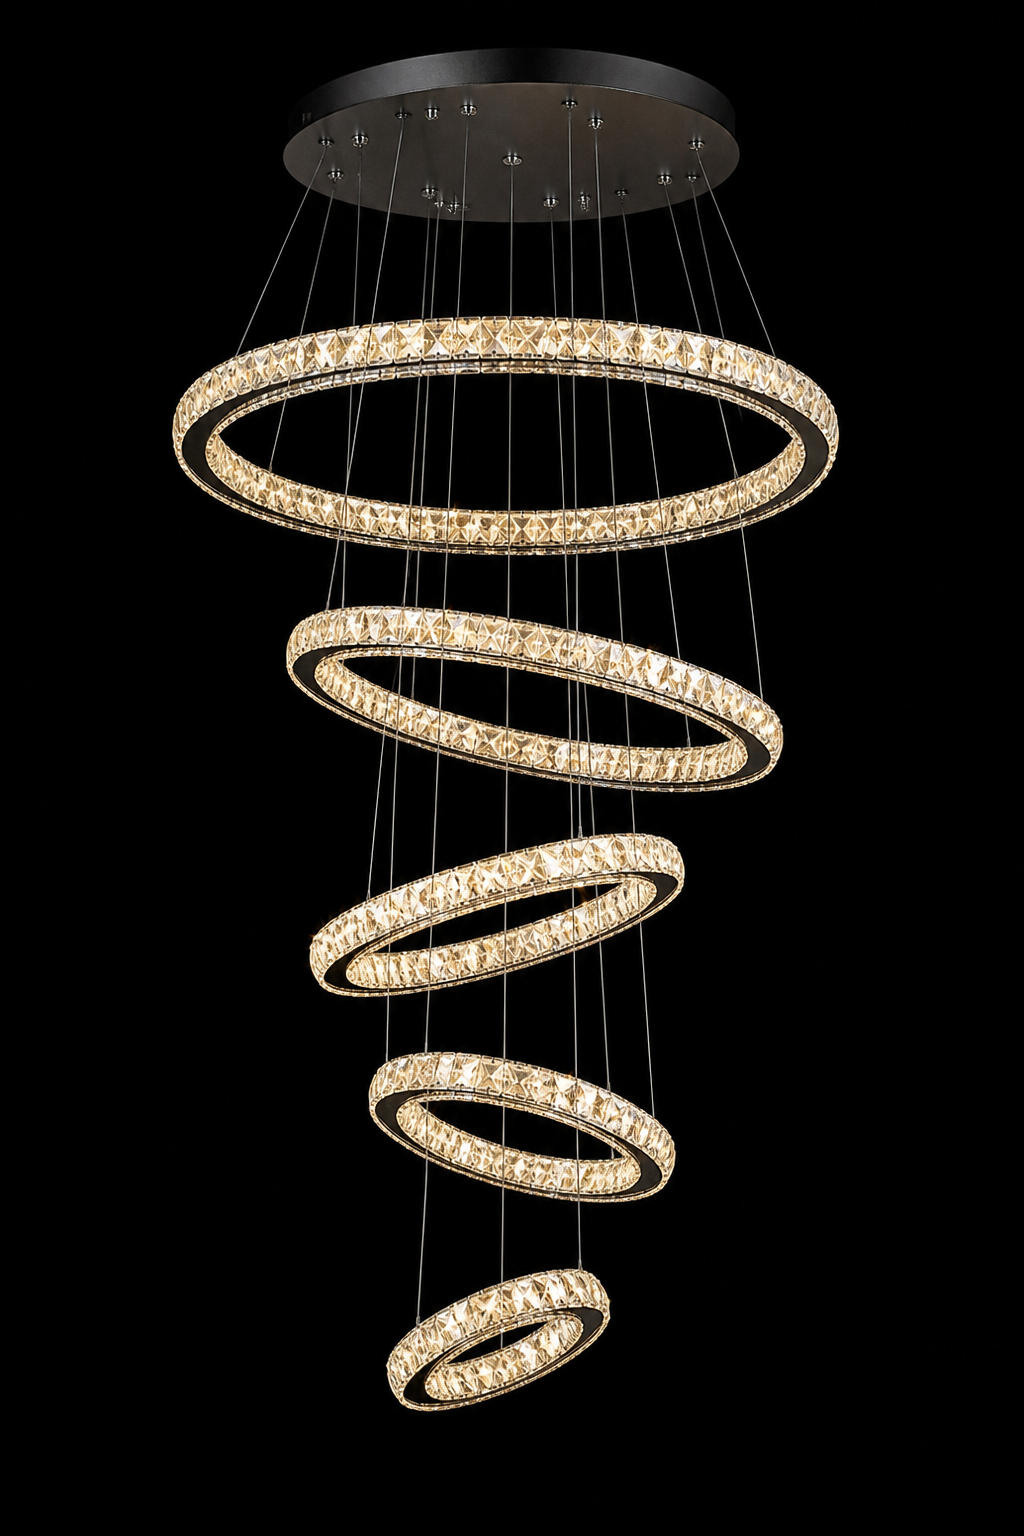
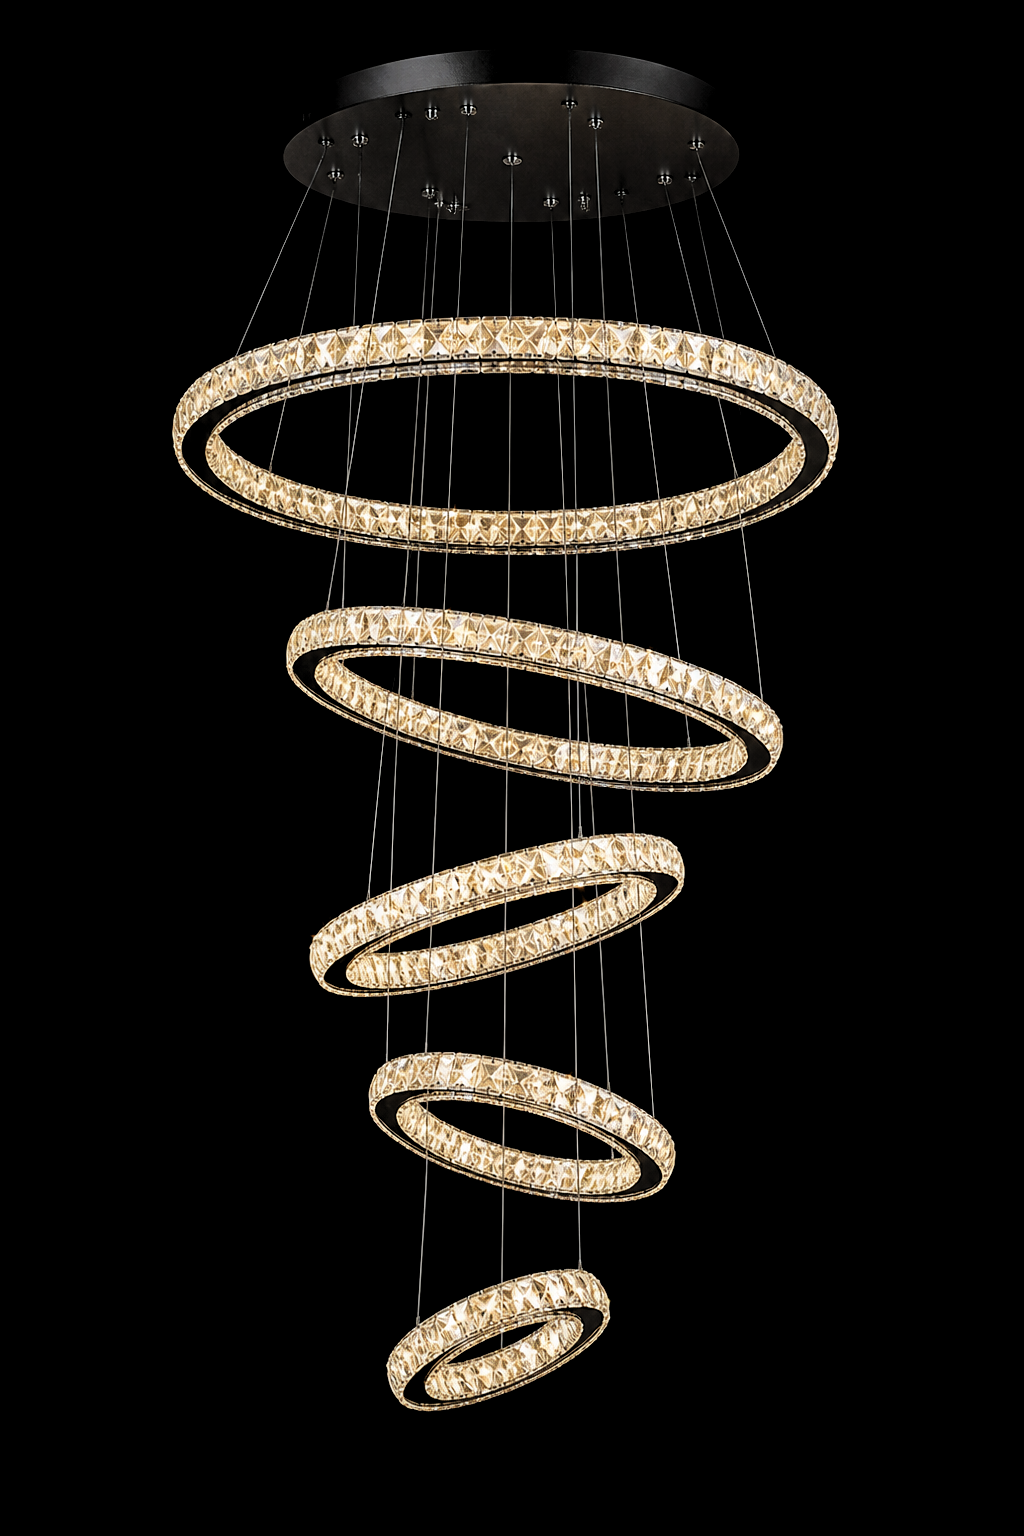
Fix hero entry: gate on image load, remove visible box edges and flare banding

diff --git a/src/components/hero-chandelier.tsx b/src/components/hero-chandelier.tsx
@@ -1,19 +1,35 @@
 "use client";
 
 import Image from "next/image";
-import { useEffect, useRef, useState } from "react";
+import { useCallback, useEffect, useRef, useState } from "react";
 
 // Module-scoped so the cinematic entry only plays on the first load of the
 // session; returning to the home page via client navigation skips it.
 let hasPlayedEntry = false;
 
+type Phase = "waiting" | "entry" | "live";
+
 export function HeroChandelier() {
-  const [entry] = useState(() => !hasPlayedEntry);
+  const [phase, setPhase] = useState<Phase>(() =>
+    hasPlayedEntry ? "live" : "waiting",
+  );
   const tiltRef = useRef<HTMLDivElement>(null);
+  const imageRef = useRef<HTMLImageElement>(null);
+
+  // Only begin the entry once the image is fully loaded, so the animation
+  // never plays against a half-loaded picture.
+  const startEntry = useCallback(() => {
+    hasPlayedEntry = true;
+    setPhase((current) => (current === "waiting" ? "entry" : current));
+  }, []);
 
   useEffect(() => {
-    hasPlayedEntry = true;
-  }, []);
+    if (phase !== "waiting") return;
+    const img = imageRef.current;
+    if (img?.complete && img.naturalWidth > 0) {
+      startEntry();
+    }
+  }, [phase, startEntry]);
 
   // Subtle 3D parallax: the chandelier tilts in perspective following the
   // pointer. Desktop-only, disabled for reduced motion.
@@ -55,12 +71,13 @@ export function HeroChandelier() {
     };
   }, []);
 
+  const phaseClass =
+    phase === "waiting" ? "hero-waiting" : phase === "entry" ? "hero-entry" : "";
+
   return (
     <div
       aria-hidden
-      className={`hero-backdrop pointer-events-none absolute inset-x-0 top-0 flex justify-center ${
-        entry ? "hero-entry" : ""
-      }`}
+      className={`hero-backdrop pointer-events-none absolute inset-x-0 top-0 flex justify-center ${phaseClass}`}
     >
       <div className="hero-3d flex justify-center">
         <div ref={tiltRef} className="hero-tilt">
@@ -68,11 +85,13 @@ export function HeroChandelier() {
             <div className="hero-sway relative">
               <span className="hero-flare" />
               <Image
+                ref={imageRef}
                 src="/hero-chandelier.png"
                 alt=""
                 width={768}
                 height={1152}
                 priority
+                onLoad={startEntry}
                 sizes="(max-width: 640px) 320px, (max-width: 768px) 380px, 460px"
                 className="hero-ignite h-[30rem] w-auto sm:h-[36rem] md:h-[42rem]"
               />

diff --git a/src/app/globals.css b/src/app/globals.css
@@ -245,16 +245,24 @@ body::after {
   animation: cs-hero-sway 10s ease-in-out 3.2s infinite;
 }
 
+/* Only visible as a brief flash while the bulbs ignite */
 .hero-flare {
   position: absolute;
   inset: -12% -30%;
   background: radial-gradient(
     ellipse 50% 42% at 50% 42%,
-    rgba(232, 189, 110, 0.34) 0%,
-    rgba(201, 163, 95, 0.12) 45%,
-    transparent 72%
+    rgba(232, 189, 110, 0.3) 0%,
+    rgba(216, 176, 102, 0.16) 28%,
+    rgba(201, 163, 95, 0.08) 48%,
+    rgba(201, 163, 95, 0.03) 62%,
+    transparent 78%
   );
-  opacity: 0.8;
+  opacity: 0;
+}
+
+/* Hidden until the image has fully loaded, then the entry begins */
+.hero-waiting .hero-ignite {
+  opacity: 0;
 }
 
 /* Cinematic first-load entry: descend in perspective, then ignite */
@@ -300,13 +308,13 @@ body::after {
     filter: brightness(0.22) blur(1.5px);
   }
   59% {
-    filter: brightness(1.18) blur(0.5px);
+    filter: brightness(1.1) blur(0.5px);
   }
   66% {
-    filter: brightness(0.68) blur(0);
+    filter: brightness(0.72) blur(0);
   }
   76% {
-    filter: brightness(1.25);
+    filter: brightness(1.12);
   }
   100% {
     filter: brightness(1);
@@ -319,16 +327,16 @@ body::after {
     opacity: 0;
   }
   59% {
-    opacity: 0.55;
+    opacity: 0.5;
   }
   66% {
-    opacity: 0.3;
+    opacity: 0.25;
   }
   80% {
-    opacity: 0.95;
+    opacity: 0.6;
   }
   100% {
-    opacity: 0.8;
+    opacity: 0;
   }
 }
 
